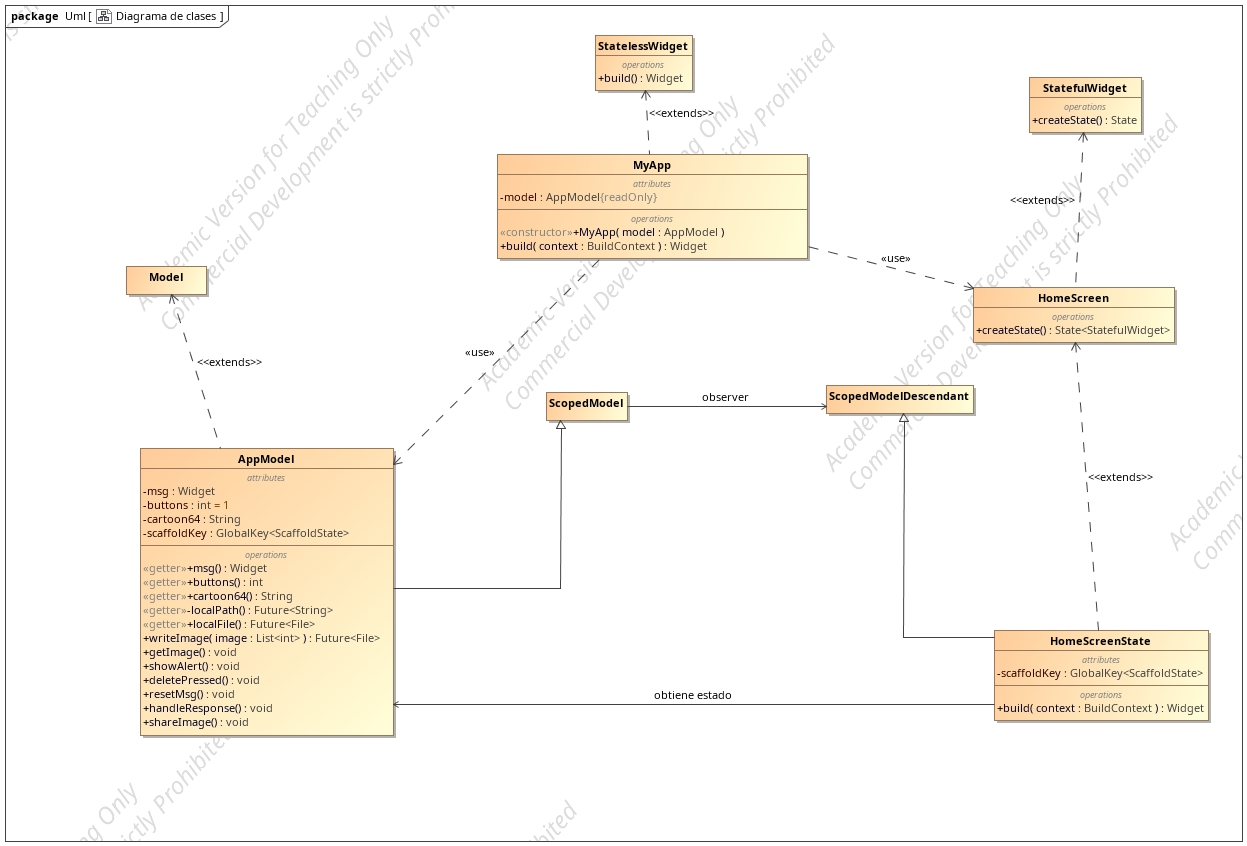
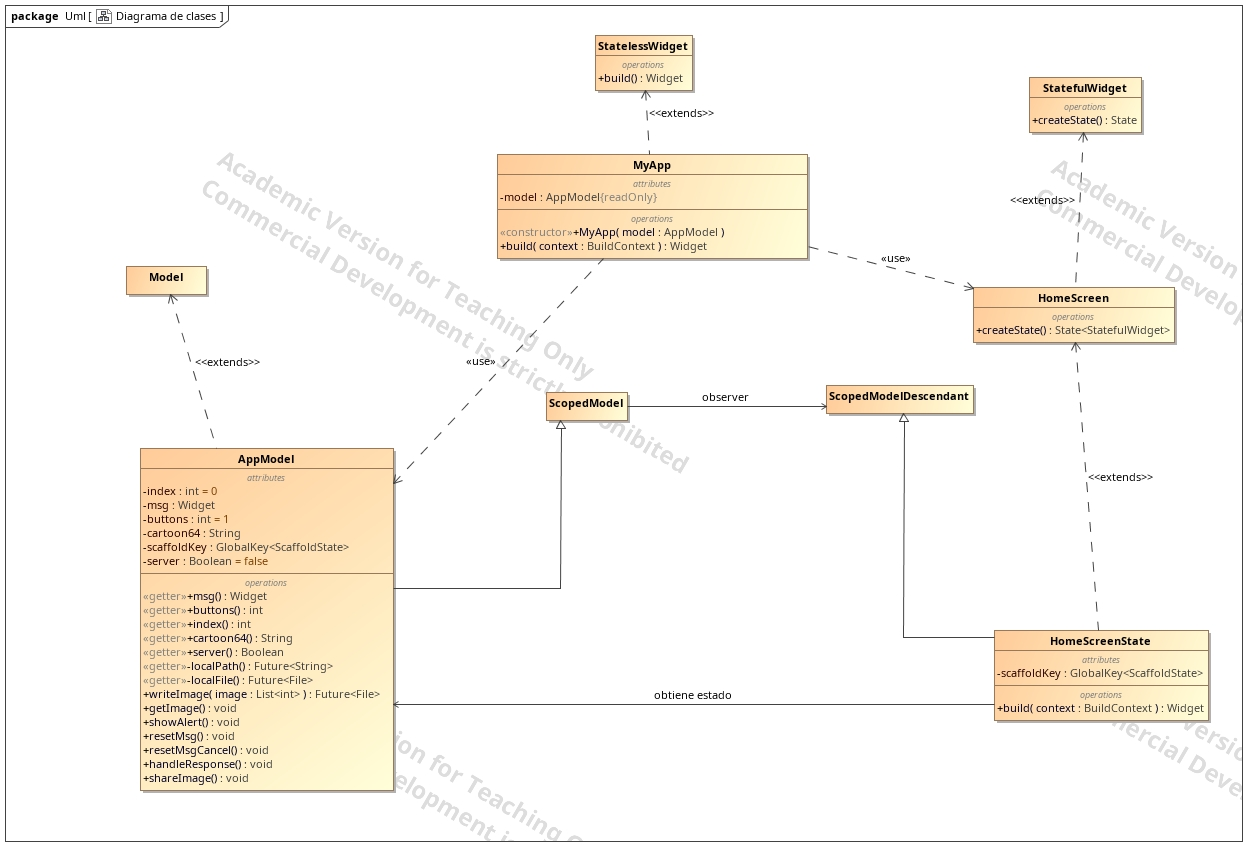
uml y correccion de errores 	modified:   Diagrama de clases.jpg 	modified:   Diagrama de secuencia.jpg 	modified:   cartoonify/lib/model.dart

diff --git a/cartoonify/lib/model.dart b/cartoonify/lib/model.dart
@@ -10,21 +10,18 @@ import "package:path/path.dart" show dirname;
 import 'package:path_provider/path_provider.dart';
 import 'package:progress_indicators/progress_indicators.dart';
 import 'package:advanced_share/advanced_share.dart';
-import 'package:simple_permissions/simple_permissions.dart';
-
 
 class AppModel extends Model{
-  int _i = 0;
+  int _index = 0;
   Widget _msg = new Text('Take a picture to convert', textScaleFactor: 1.5,);
-  File _image;
   int _buttons = 1;
   String _cartoon64;
   final scaffoldKey = new GlobalKey<ScaffoldState>();
   bool _server=false;
 
   Widget get msg => _msg;
-  File get image => _image;
   int get buttons => _buttons;
+  int get index => _index;
   String get cartoon64 => _cartoon64;
   bool get server => _server;
 
@@ -35,8 +32,8 @@ class AppModel extends Model{
 
   Future<File> get _localFile async {
     final path = await _localPath;
-    _i++;
-    return File('$path/image$_i.png');
+    _index++;
+    return File('$path/image$index.png');
   }
 
   Future<File> writeImage(List<int> image) async{
@@ -59,8 +56,8 @@ class AppModel extends Model{
 
         // Creating request
         // NOTE: In the emulator, localhost ip is 10.0.2.2
-        var uri = Uri.parse('http://192.168.43.38:5000/cartoon');  //patri
-        //var uri = Uri.parse('http://172.30.3.9:5000/cartoon'); //sobremesa
+        //var uri = Uri.parse('http://192.168.43.38:5000/cartoon');  //patri
+        var uri = Uri.parse('http://172.30.3.9:5000/cartoon'); //sobremesa
         //var uri = Uri.parse('http://192.168.43.122:5000/cartoon'); //portatil
         var request = http.MultipartRequest("POST", uri);
         var inputFile = http.MultipartFile.fromBytes(
@@ -101,7 +98,7 @@ class AppModel extends Model{
               // Writing the decoded image to the output file
               await outputFile.writeAsBytes(imageResponse);
 
-              if (!_server) {
+              if (!server) {
                 _msg = new SizedBox(
                     child: Container(
                       child: new Image.file(outputFile),
@@ -110,21 +107,19 @@ class AppModel extends Model{
                     )
                 );
                 _buttons = 3;
-                notifyListeners();
               }
             }
             else {
               _buttons = 1;
-              notifyListeners();
             }
+            notifyListeners();
           }
         } catch (e) {
           if (!server) {
             showAlert();
           }
         }
-      }
-      catch (e) {
+      } catch (e) {
         resetMsg();
       }
   }
@@ -150,10 +145,6 @@ class AppModel extends Model{
   }
 
 
-  void deletePressed() {
-    _image = null;
-    notifyListeners();
-  }
 
   void resetMsg(){
     _msg = new Text('Take a picture to convert', textScaleFactor: 1.5,);
